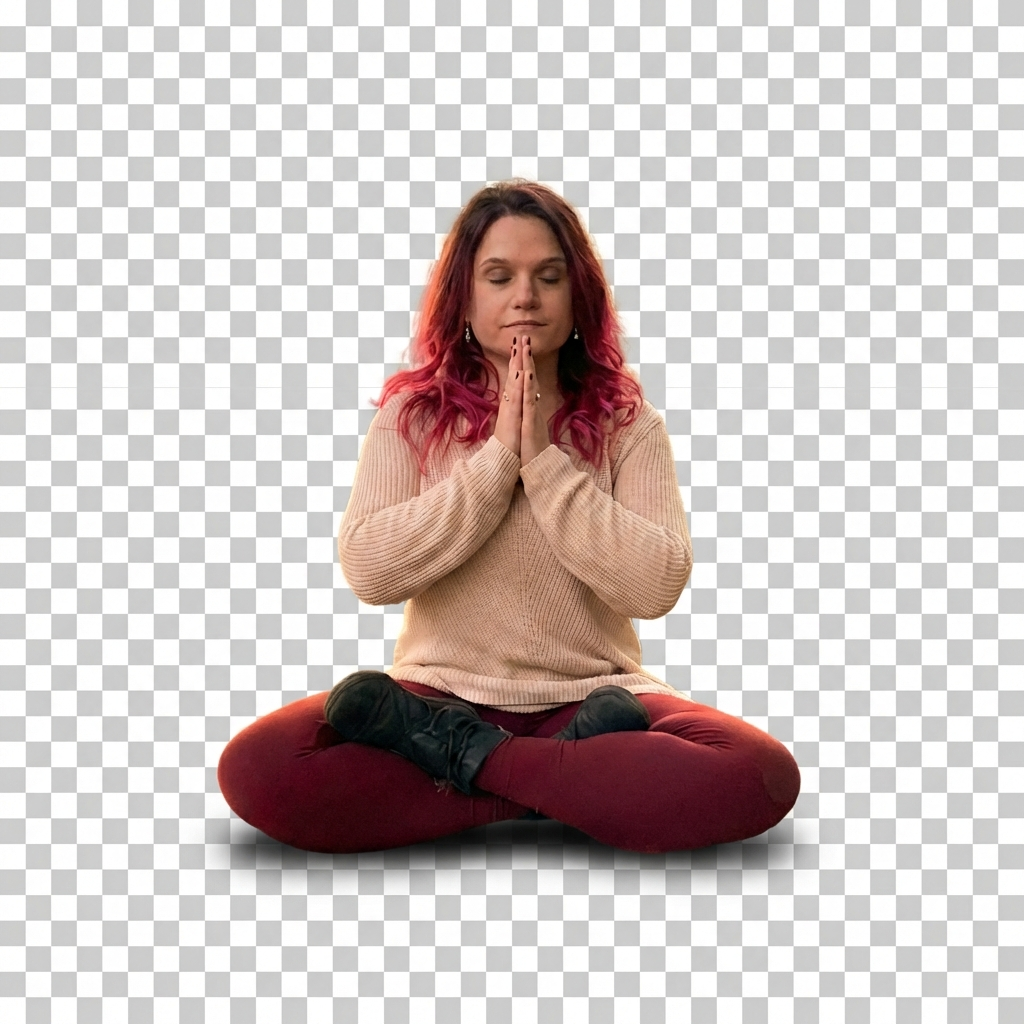
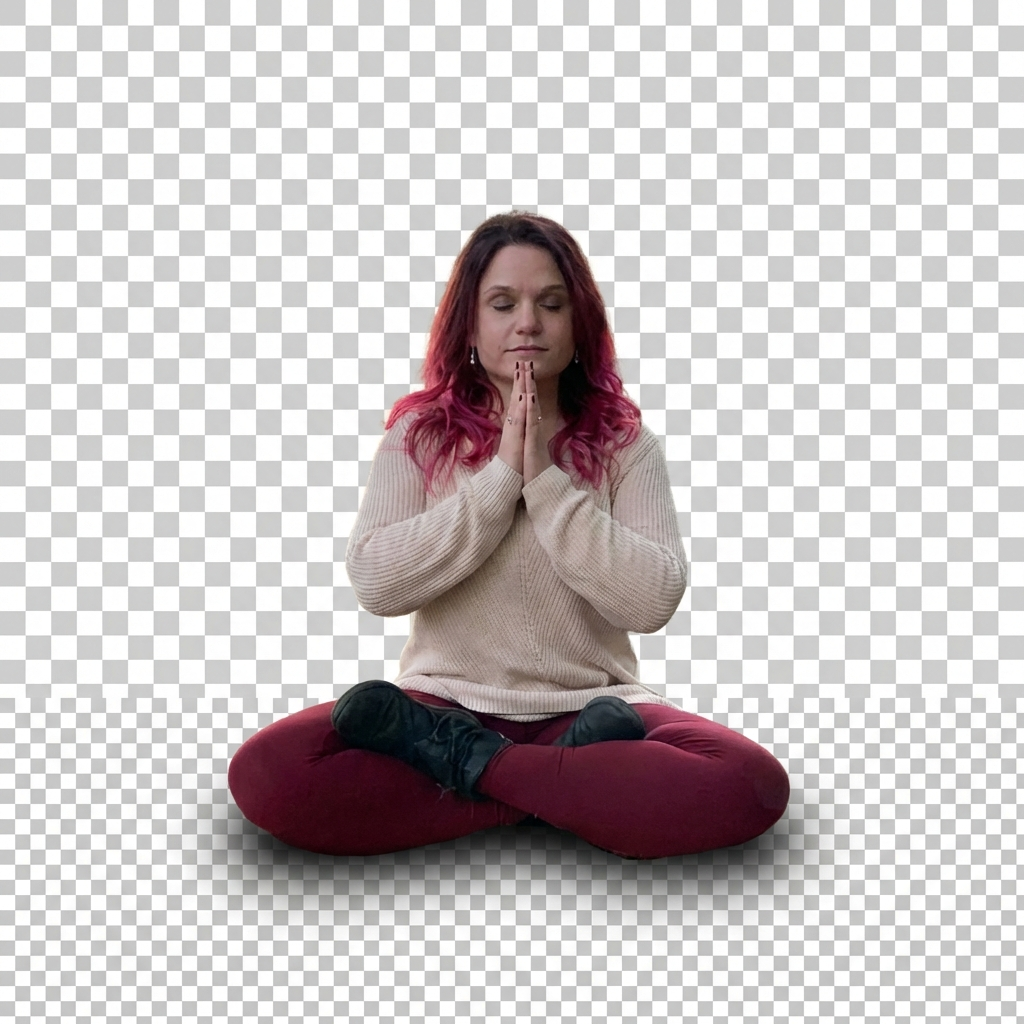
fix: adjust hero proportions, split nav, correct subject size, hide desktop navbar on home

diff --git a/components/HeroSection.tsx b/components/HeroSection.tsx
@@ -25,32 +25,35 @@ export function HeroSection() {
             </div>
 
             {/* 3. LAYER: NAVIGATION (Behind Subject) */}
-            {/* Centered vertically/horizontally, but behind the subject's head/body */}
-            <div className="absolute top-[45%] left-0 right-0 z-10 flex justify-center items-center">
-                <nav className="flex items-center gap-8 md:gap-16 lg:gap-24 opacity-0 animate-fade-in-up [animation-delay:200ms] forwards">
-                    {['Home', 'About', 'Services'].map((item) => (
-                        <span key={item} className="text-charcoal/80 font-sans text-[11px] md:text-[13px] uppercase tracking-[0.25em] font-medium hover:text-charcoal cursor-pointer transition-colors">
-                            {item}
-                        </span>
-                    ))}
-                    {/* Spacing for Subject Head if needed, or visual gap */}
-                    <span className="w-24 md:w-48 lg:w-64" /> {/* Gap for subject */}
-                    {['Classes', 'Contact', 'Book'].map((item) => (
-                        <span key={item} className="text-charcoal/80 font-sans text-[11px] md:text-[13px] uppercase tracking-[0.25em] font-medium hover:text-charcoal cursor-pointer transition-colors">
-                            {item}
-                        </span>
-                    ))}
+            <div className="absolute top-[52%] left-0 right-0 z-10 flex justify-center items-center">
+                <nav className="flex items-center gap-12 md:gap-24 lg:gap-32 w-full justify-center px-4 opacity-0 animate-fade-in-up [animation-delay:200ms] forwards">
+                    <div className="flex gap-8 md:gap-12">
+                        {['Home', 'About', 'Services'].map((item) => (
+                            <Link key={item} href={item === 'Home' ? '/' : `/${item.toLowerCase()}`} className="text-charcoal/70 font-sans text-[10px] md:text-[12px] lg:text-[13px] uppercase tracking-[0.3em] font-medium hover:text-charcoal cursor-pointer transition-colors relative group">
+                                {item}
+                            </Link>
+                        ))}
+                    </div>
+
+                    <div className="w-32 md:w-64 lg:w-80 shrink-0" />
+
+                    <div className="flex gap-8 md:gap-12">
+                        {['Classes', 'Contact', 'Book'].map((item) => (
+                            <Link key={item} href={`/${item.toLowerCase()}`} className="text-charcoal/70 font-sans text-[10px] md:text-[12px] lg:text-[13px] uppercase tracking-[0.3em] font-medium hover:text-charcoal cursor-pointer transition-colors relative group">
+                                {item}
+                            </Link>
+                        ))}
+                    </div>
                 </nav>
             </div>
 
             {/* 4. LAYER: SUBJECT (Foreground) */}
-            {/* Anchored bottom, centered. Overlaps the Nav slightly if screen is small, or fits in the gap. */}
-            <div className="absolute bottom-0 left-0 right-0 z-20 flex justify-center items-end h-[60vh] md:h-[70vh]">
+            <div className="absolute bottom-0 left-0 right-0 z-20 flex justify-center items-end h-[50vh] md:h-[55vh]">
 
-                {/* CSS Grounding Shadow (Extra realism on the white floor) */}
-                <div className="absolute bottom-[5%] w-[40%] h-[20px] bg-charcoal/20 blur-[30px] rounded-[100%]" />
+                {/* CSS Grounding Shadow */}
+                <div className="absolute bottom-[2%] w-[25%] h-[15px] bg-charcoal/30 blur-[25px] rounded-[100%]" />
 
-                <div className="relative w-full max-w-[80vh] h-full">
+                <div className="relative w-full max-w-[60vh] h-full transition-transform duration-1000 hover:scale-[1.01]">
                     <Image
                         src="/images/hero-cutout.png"
                         alt="Jaclyn Muir Meditation"
@@ -64,4 +67,3 @@ export function HeroSection() {
         </section>
     );
 }
-

diff --git a/components/Navbar.tsx b/components/Navbar.tsx
@@ -18,6 +18,8 @@ export function Navbar() {
     const pathname = usePathname();
     const [isOpen, setIsOpen] = useState(false);
 
+    if (pathname === '/') return null;
+
     return (
         <nav className="fixed top-0 left-0 right-0 z-[100] bg-background/90 backdrop-blur-sm">
             <div className="max-w-[1600px] mx-auto px-8 md:px-20 lg:px-32 h-24 md:h-28 flex items-center justify-between border-b border-charcoal/5 relative z-[110]">
